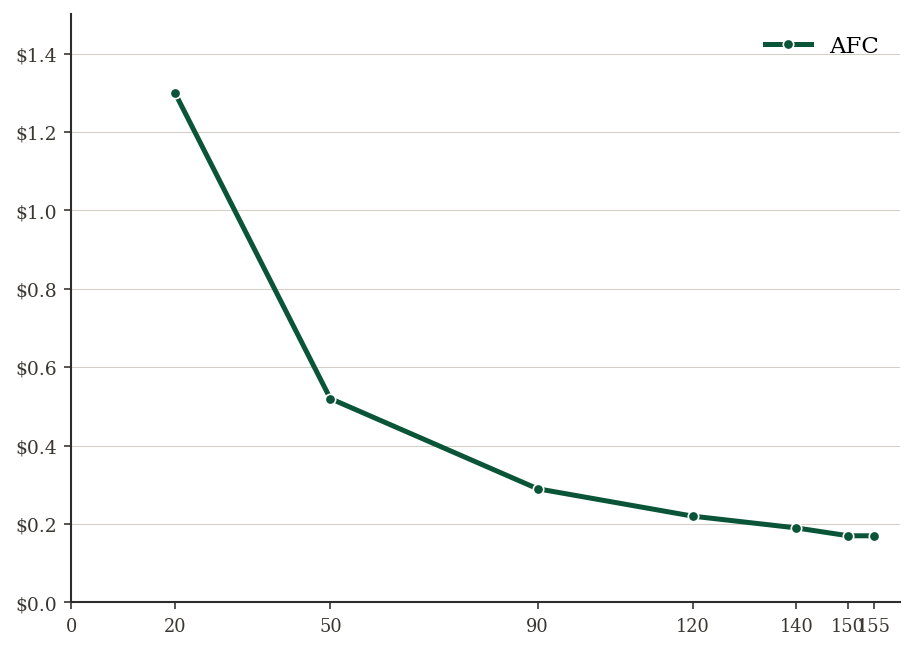
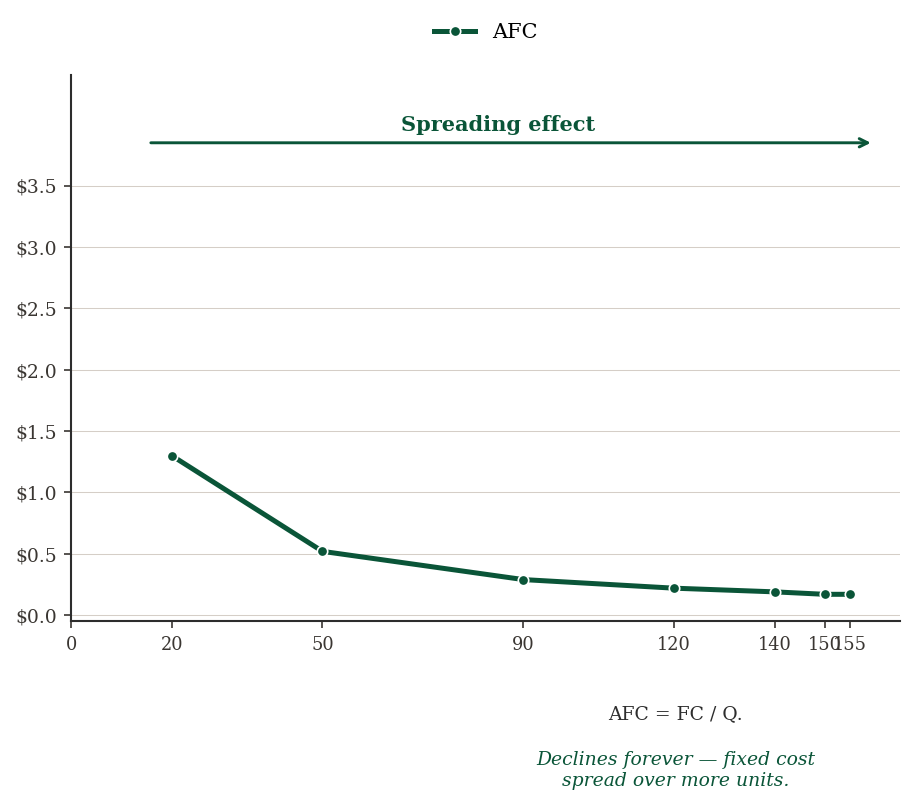
ch08: enlarge + visually-align page 50 AMC panels
Two changes to make all three panels read at the same visual scale:

(1) AFC figure regenerated with annotations matching AVC+MC and ATC+MC:

  - Y-axis range widened from 0..1.5 to -0.05..4.4 (same as the other two)

  - Y-ticks now $0.0 / $0.5 / $1.0 / $1.5 / $2.0 / $2.5 / $3.0 / $3.5 (same scale)

  - X-range 0..165 (same as others, was 0..160)

  - Top: green spreading-effect arrow at y=3.85 (matches the Increasing-returns/Diminishing-returns arrows on the other panels)

  - Bottom: 'AFC = FC / Q' label + 'Declines forever — fixed cost spread over more units' italic note (same vertical layout as AVC/ATC bottom annotations)

  - Legend moved to upper-center 1.13 bbox (matches other panels)

  - subplots_adjust top=0.87 (matches other panels; was 0.92)

(2) HTML layout:

  - Image max-height bumped from 340px to 440px so all panels fill the column vertically

  - object-fit: contain added to lock aspect ratio cleanly

  - Bullets refactored into matching color-coded cards (purple AVC, orange ATC, green AFC) for clean horizontal alignment; tightened wording from full sentences to compact one-line statements; grid column-gap 10px → 8px

  - align-items: start on the bullet grid so all 3 cards top-align

Visual result: three panels now share identical x-range, y-range, top-arrow band, bottom-annotation band, and external dimensions. Text bullets below sit in identical-style color cards that line up under their respective panels.

diff --git a/econ2316/ch08-costs-of-production/index.html b/econ2316/ch08-costs-of-production/index.html
@@ -1818,51 +1818,51 @@
 <section id="amc-three-panels">
   <h2><i class="fa-solid fa-chart-line" style="color: var(--success-color);"></i> Average and Marginal Costs &mdash; Three Curves, Step by Step</h2>
   <!-- 3-column grid: AVC+MC (1st), ATC+MC (2nd), AFC (last) -->
-  <div style="display: grid; grid-template-columns: 1fr 1fr 1fr; gap: 10px; margin-top: 4px;">
+  <div style="display: grid; grid-template-columns: 1fr 1fr 1fr; gap: 8px; margin-top: 4px;">
 
     <!-- Panel 1: AVC + MC (always visible) -->
-    <div>
-      <p style="font-size: 11pt; margin: 0 0 4px; text-align: center;">
+    <div style="text-align: center;">
+      <p style="font-size: 11pt; margin: 0 0 2px;">
         <span style="color: #9C6FCC; font-weight: 800;">AVC</span> + <span style="color: #C72A2A; font-weight: 800;">MC</span>
         &nbsp;&middot;&nbsp; crossing at \(Q = 120\)
       </p>
-      <img alt="AVC (purple, U-shape) and MC (red) crossing at AVC minimum at Q=120; Increasing-returns / Diminishing-returns zone arrows above the chart." src="figures/fig-amc-panel-avc-mc.png" style="width: 100%; max-height: 340px;">
+      <img alt="AVC (purple, U-shape) and MC (red) crossing at AVC minimum at Q=120; Increasing-returns / Diminishing-returns zone arrows above the chart; bottom annotations explain MC<AVC means AVC falling, MC>AVC means AVC rising, and MC crosses AVC at AVC's minimum." src="figures/fig-amc-panel-avc-mc.png" style="width: 100%; max-height: 440px; object-fit: contain;">
     </div>
 
     <!-- Panel 2: ATC + MC (fragment 1) -->
-    <div class="fragment fade-up" data-fragment-index="1">
-      <p style="font-size: 11pt; margin: 0 0 4px; text-align: center;">
+    <div class="fragment fade-up" data-fragment-index="1" style="text-align: center;">
+      <p style="font-size: 11pt; margin: 0 0 2px;">
         <span style="color: #F08C26; font-weight: 800;">ATC</span> + <span style="color: #C72A2A; font-weight: 800;">MC</span>
         &nbsp;&middot;&nbsp; crossing at \(Q = 140\)
       </p>
-      <img alt="ATC (orange, U-shape) and MC (red) crossing at ATC minimum at Q=140; Increasing-returns / Diminishing-returns zone arrows above the chart." src="figures/fig-amc-panel-atc-mc.png" style="width: 100%; max-height: 340px;">
+      <img alt="ATC (orange, U-shape) and MC (red) crossing at ATC minimum at Q=140; Increasing-returns / Diminishing-returns zone arrows above the chart; bottom annotations explain MC<ATC means ATC falling, MC>ATC means ATC rising, and MC crosses ATC at ATC's minimum." src="figures/fig-amc-panel-atc-mc.png" style="width: 100%; max-height: 440px; object-fit: contain;">
     </div>
 
     <!-- Panel 3: AFC (fragment 2 — moved last) -->
-    <div class="fragment fade-up" data-fragment-index="2">
-      <p style="font-size: 11pt; margin: 0 0 4px; text-align: center;">
+    <div class="fragment fade-up" data-fragment-index="2" style="text-align: center;">
+      <p style="font-size: 11pt; margin: 0 0 2px;">
         <span style="color: #0A5538; font-weight: 800;">AFC</span>
         &nbsp;&middot;&nbsp; monotonically declining
       </p>
-      <img alt="AFC (dark green) continuously declining as Q grows — the spreading effect of fixed cost over more units." src="figures/fig-amc-panel-afc.png" style="width: 100%; max-height: 340px;">
+      <img alt="AFC (dark green) continuously declining as Q grows — the spreading effect of fixed cost over more units; top arrow labels the 'Spreading effect'; bottom annotations: AFC = FC/Q and 'Declines forever — fixed cost spread over more units'." src="figures/fig-amc-panel-afc.png" style="width: 100%; max-height: 440px; object-fit: contain;">
     </div>
   </div>
 
   <!-- Text bullets in matching order: AVC+MC | ATC+MC | AFC (last) -->
-  <div style="display: grid; grid-template-columns: 1fr 1fr 1fr; gap: 10px; margin-top: 8px;">
-    <div>
-      <p style="font-size: 10pt; line-height: 1.4; margin: 0;">
-        <strong><span style="color: #9C6FCC;">AVC</span></strong> is <strong>U-shaped</strong>: falls during <em style="color: #0A5538;">increasing returns</em>, then rises under <em style="color: #C72A2A;">diminishing returns</em>. <strong>MC crosses AVC at its minimum.</strong>
+  <div style="display: grid; grid-template-columns: 1fr 1fr 1fr; gap: 8px; margin-top: 4px; align-items: start;">
+    <div style="background: #f0f5f8; border-radius: 6px; padding: 6px 10px;">
+      <p style="font-size: 10pt; line-height: 1.35; margin: 0;">
+        <strong><span style="color: #9C6FCC;">AVC</span></strong> is <strong>U-shaped</strong>. <strong>MC crosses AVC at its minimum</strong>.
       </p>
     </div>
-    <div class="fragment fade-up" data-fragment-index="1">
-      <p style="font-size: 10pt; line-height: 1.4; margin: 0;">
-        <strong><span style="color: #F08C26;">ATC</span></strong> is also <strong>U-shaped</strong> &mdash; \(ATC = AVC + AFC\), so it sits above AVC by the AFC gap. <strong>MC crosses ATC at its minimum</strong> (further right than AVC's, since AFC is still pulling ATC down a bit).
+    <div class="fragment fade-up" data-fragment-index="1" style="background: #fef9f3; border-radius: 6px; padding: 6px 10px;">
+      <p style="font-size: 10pt; line-height: 1.35; margin: 0;">
+        <strong><span style="color: #F08C26;">ATC</span></strong> = AVC + AFC. Also U-shaped. <strong>MC crosses ATC at its minimum</strong> (further right than AVC's).
       </p>
     </div>
-    <div class="fragment fade-up" data-fragment-index="2">
-      <p style="font-size: 10pt; line-height: 1.4; margin: 0;">
-        <strong><span style="color: #0A5538;">AFC</span></strong> decreases continuously as more output is produced &mdash; the <strong>spreading effect</strong> of fixed cost over more units. (No U-shape: no MC interaction here.)
+    <div class="fragment fade-up" data-fragment-index="2" style="background: #ecfdf5; border-radius: 6px; padding: 6px 10px;">
+      <p style="font-size: 10pt; line-height: 1.35; margin: 0;">
+        <strong><span style="color: #0A5538;">AFC</span></strong> = FC/Q. Monotonically declines &mdash; fixed cost spread over more units.
       </p>
     </div>
   </div>

diff --git a/econ2316/ch08-costs-of-production/presentation.html b/econ2316/ch08-costs-of-production/presentation.html
@@ -1818,51 +1818,51 @@
 <section id="amc-three-panels">
   <h2><i class="fa-solid fa-chart-line" style="color: var(--success-color);"></i> Average and Marginal Costs &mdash; Three Curves, Step by Step</h2>
   <!-- 3-column grid: AVC+MC (1st), ATC+MC (2nd), AFC (last) -->
-  <div style="display: grid; grid-template-columns: 1fr 1fr 1fr; gap: 10px; margin-top: 4px;">
+  <div style="display: grid; grid-template-columns: 1fr 1fr 1fr; gap: 8px; margin-top: 4px;">
 
     <!-- Panel 1: AVC + MC (always visible) -->
-    <div>
-      <p style="font-size: 11pt; margin: 0 0 4px; text-align: center;">
+    <div style="text-align: center;">
+      <p style="font-size: 11pt; margin: 0 0 2px;">
         <span style="color: #9C6FCC; font-weight: 800;">AVC</span> + <span style="color: #C72A2A; font-weight: 800;">MC</span>
         &nbsp;&middot;&nbsp; crossing at \(Q = 120\)
       </p>
-      <img alt="AVC (purple, U-shape) and MC (red) crossing at AVC minimum at Q=120; Increasing-returns / Diminishing-returns zone arrows above the chart." src="figures/fig-amc-panel-avc-mc.png" style="width: 100%; max-height: 340px;">
+      <img alt="AVC (purple, U-shape) and MC (red) crossing at AVC minimum at Q=120; Increasing-returns / Diminishing-returns zone arrows above the chart; bottom annotations explain MC<AVC means AVC falling, MC>AVC means AVC rising, and MC crosses AVC at AVC's minimum." src="figures/fig-amc-panel-avc-mc.png" style="width: 100%; max-height: 440px; object-fit: contain;">
     </div>
 
     <!-- Panel 2: ATC + MC (fragment 1) -->
-    <div class="fragment fade-up" data-fragment-index="1">
-      <p style="font-size: 11pt; margin: 0 0 4px; text-align: center;">
+    <div class="fragment fade-up" data-fragment-index="1" style="text-align: center;">
+      <p style="font-size: 11pt; margin: 0 0 2px;">
         <span style="color: #F08C26; font-weight: 800;">ATC</span> + <span style="color: #C72A2A; font-weight: 800;">MC</span>
         &nbsp;&middot;&nbsp; crossing at \(Q = 140\)
       </p>
-      <img alt="ATC (orange, U-shape) and MC (red) crossing at ATC minimum at Q=140; Increasing-returns / Diminishing-returns zone arrows above the chart." src="figures/fig-amc-panel-atc-mc.png" style="width: 100%; max-height: 340px;">
+      <img alt="ATC (orange, U-shape) and MC (red) crossing at ATC minimum at Q=140; Increasing-returns / Diminishing-returns zone arrows above the chart; bottom annotations explain MC<ATC means ATC falling, MC>ATC means ATC rising, and MC crosses ATC at ATC's minimum." src="figures/fig-amc-panel-atc-mc.png" style="width: 100%; max-height: 440px; object-fit: contain;">
     </div>
 
     <!-- Panel 3: AFC (fragment 2 — moved last) -->
-    <div class="fragment fade-up" data-fragment-index="2">
-      <p style="font-size: 11pt; margin: 0 0 4px; text-align: center;">
+    <div class="fragment fade-up" data-fragment-index="2" style="text-align: center;">
+      <p style="font-size: 11pt; margin: 0 0 2px;">
         <span style="color: #0A5538; font-weight: 800;">AFC</span>
         &nbsp;&middot;&nbsp; monotonically declining
       </p>
-      <img alt="AFC (dark green) continuously declining as Q grows — the spreading effect of fixed cost over more units." src="figures/fig-amc-panel-afc.png" style="width: 100%; max-height: 340px;">
+      <img alt="AFC (dark green) continuously declining as Q grows — the spreading effect of fixed cost over more units; top arrow labels the 'Spreading effect'; bottom annotations: AFC = FC/Q and 'Declines forever — fixed cost spread over more units'." src="figures/fig-amc-panel-afc.png" style="width: 100%; max-height: 440px; object-fit: contain;">
     </div>
   </div>
 
   <!-- Text bullets in matching order: AVC+MC | ATC+MC | AFC (last) -->
-  <div style="display: grid; grid-template-columns: 1fr 1fr 1fr; gap: 10px; margin-top: 8px;">
-    <div>
-      <p style="font-size: 10pt; line-height: 1.4; margin: 0;">
-        <strong><span style="color: #9C6FCC;">AVC</span></strong> is <strong>U-shaped</strong>: falls during <em style="color: #0A5538;">increasing returns</em>, then rises under <em style="color: #C72A2A;">diminishing returns</em>. <strong>MC crosses AVC at its minimum.</strong>
+  <div style="display: grid; grid-template-columns: 1fr 1fr 1fr; gap: 8px; margin-top: 4px; align-items: start;">
+    <div style="background: #f0f5f8; border-radius: 6px; padding: 6px 10px;">
+      <p style="font-size: 10pt; line-height: 1.35; margin: 0;">
+        <strong><span style="color: #9C6FCC;">AVC</span></strong> is <strong>U-shaped</strong>. <strong>MC crosses AVC at its minimum</strong>.
       </p>
     </div>
-    <div class="fragment fade-up" data-fragment-index="1">
-      <p style="font-size: 10pt; line-height: 1.4; margin: 0;">
-        <strong><span style="color: #F08C26;">ATC</span></strong> is also <strong>U-shaped</strong> &mdash; \(ATC = AVC + AFC\), so it sits above AVC by the AFC gap. <strong>MC crosses ATC at its minimum</strong> (further right than AVC's, since AFC is still pulling ATC down a bit).
+    <div class="fragment fade-up" data-fragment-index="1" style="background: #fef9f3; border-radius: 6px; padding: 6px 10px;">
+      <p style="font-size: 10pt; line-height: 1.35; margin: 0;">
+        <strong><span style="color: #F08C26;">ATC</span></strong> = AVC + AFC. Also U-shaped. <strong>MC crosses ATC at its minimum</strong> (further right than AVC's).
       </p>
     </div>
-    <div class="fragment fade-up" data-fragment-index="2">
-      <p style="font-size: 10pt; line-height: 1.4; margin: 0;">
-        <strong><span style="color: #0A5538;">AFC</span></strong> decreases continuously as more output is produced &mdash; the <strong>spreading effect</strong> of fixed cost over more units. (No U-shape: no MC interaction here.)
+    <div class="fragment fade-up" data-fragment-index="2" style="background: #ecfdf5; border-radius: 6px; padding: 6px 10px;">
+      <p style="font-size: 10pt; line-height: 1.35; margin: 0;">
+        <strong><span style="color: #0A5538;">AFC</span></strong> = FC/Q. Monotonically declines &mdash; fixed cost spread over more units.
       </p>
     </div>
   </div>
